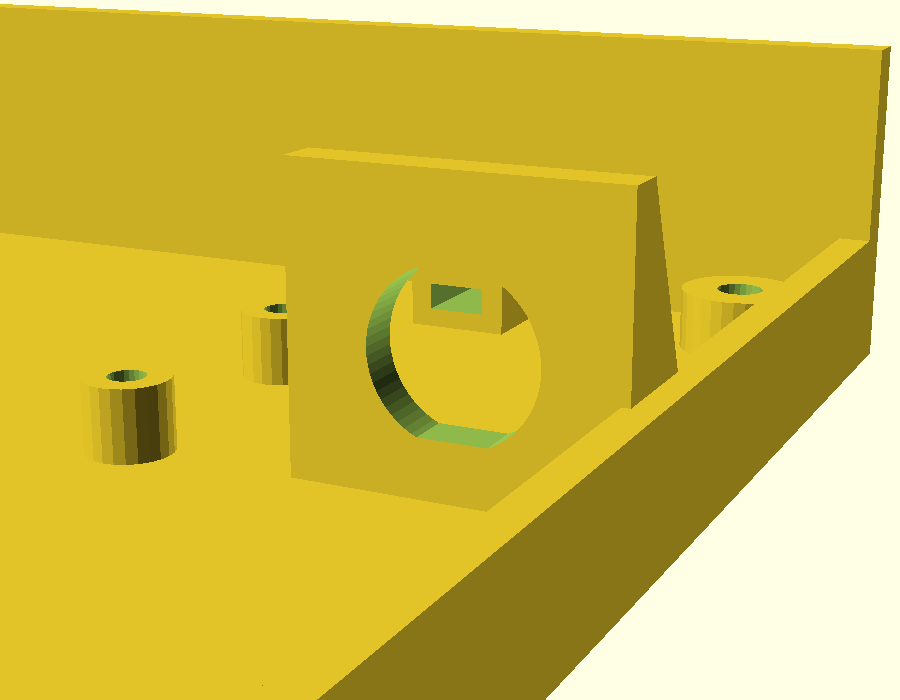
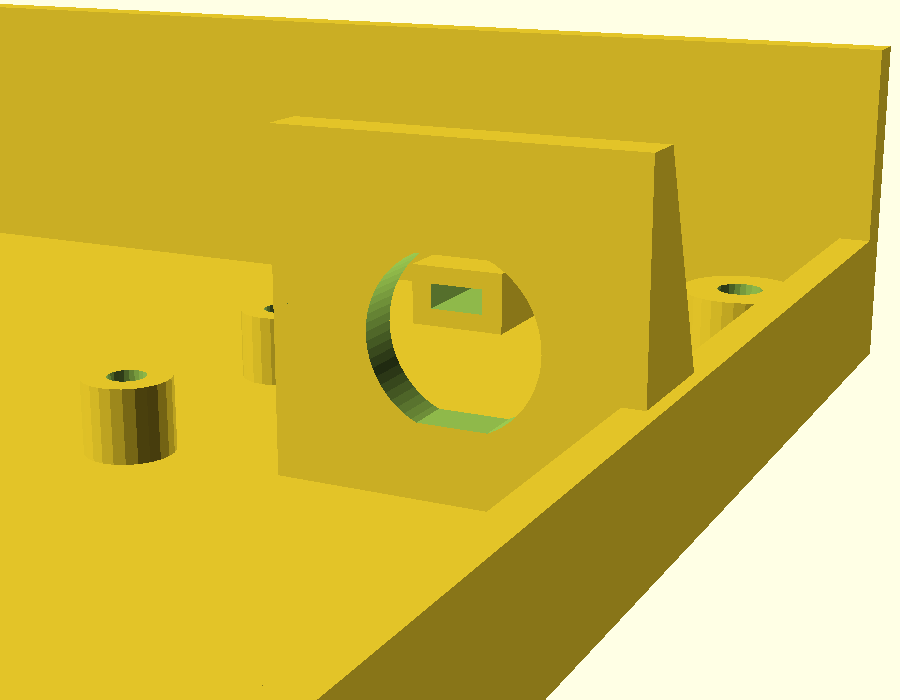
Tacka elektroniki: wolne Ø18 za ścianką gniazda USB-C na nakrętkę 15,5 (pomiar 27.10), oś 12,4 nad dnem
Siatka OK, kolizje: pusto.

diff --git a/20-analizy/2026-10-25-podstawka-model.md b/20-analizy/2026-10-25-podstawka-model.md
@@ -342,3 +342,10 @@ Kontrole: siatka OK, kolizje szufladki z tacką: pusto. Wymiary płytek i gniazd
   - ścianka 3 (elektronika: ≤ 7, zostaje gwint na nakrętkę 2–3), oś 11,5 nad spodem tacki.
 
   Nakrętka gniazda niezmierzona: założony klucz 14, wyznacza wysokość osi. Siatka i kolizje: OK. **Tacka gotowa do druku** (A1 mini albo X1C, dnem na stół, bez podpór).
+- **Nakrętka gniazda (pomiar 27.10, przez elektronikę):** na rogach 15,5, grubość 3; za ścianką potrzeba wolnego okręgu ≥ Ø18 na nakrętkę i obrót klucza albo palców. Wykonano:
+  - oś gniazda 12,4 nad spodem tacki (`gnObrys` = max(18; 15,5; 14));
+  - ścianka 24 × 24,4;
+  - żebra za ścianką 9,6 od osi, poza wolnym okręgiem;
+  - ścianka 3 – na gwincie zostaje miejsce na nakrętkę 3 i zapas.
+
+  Siatka i kolizje: OK.
